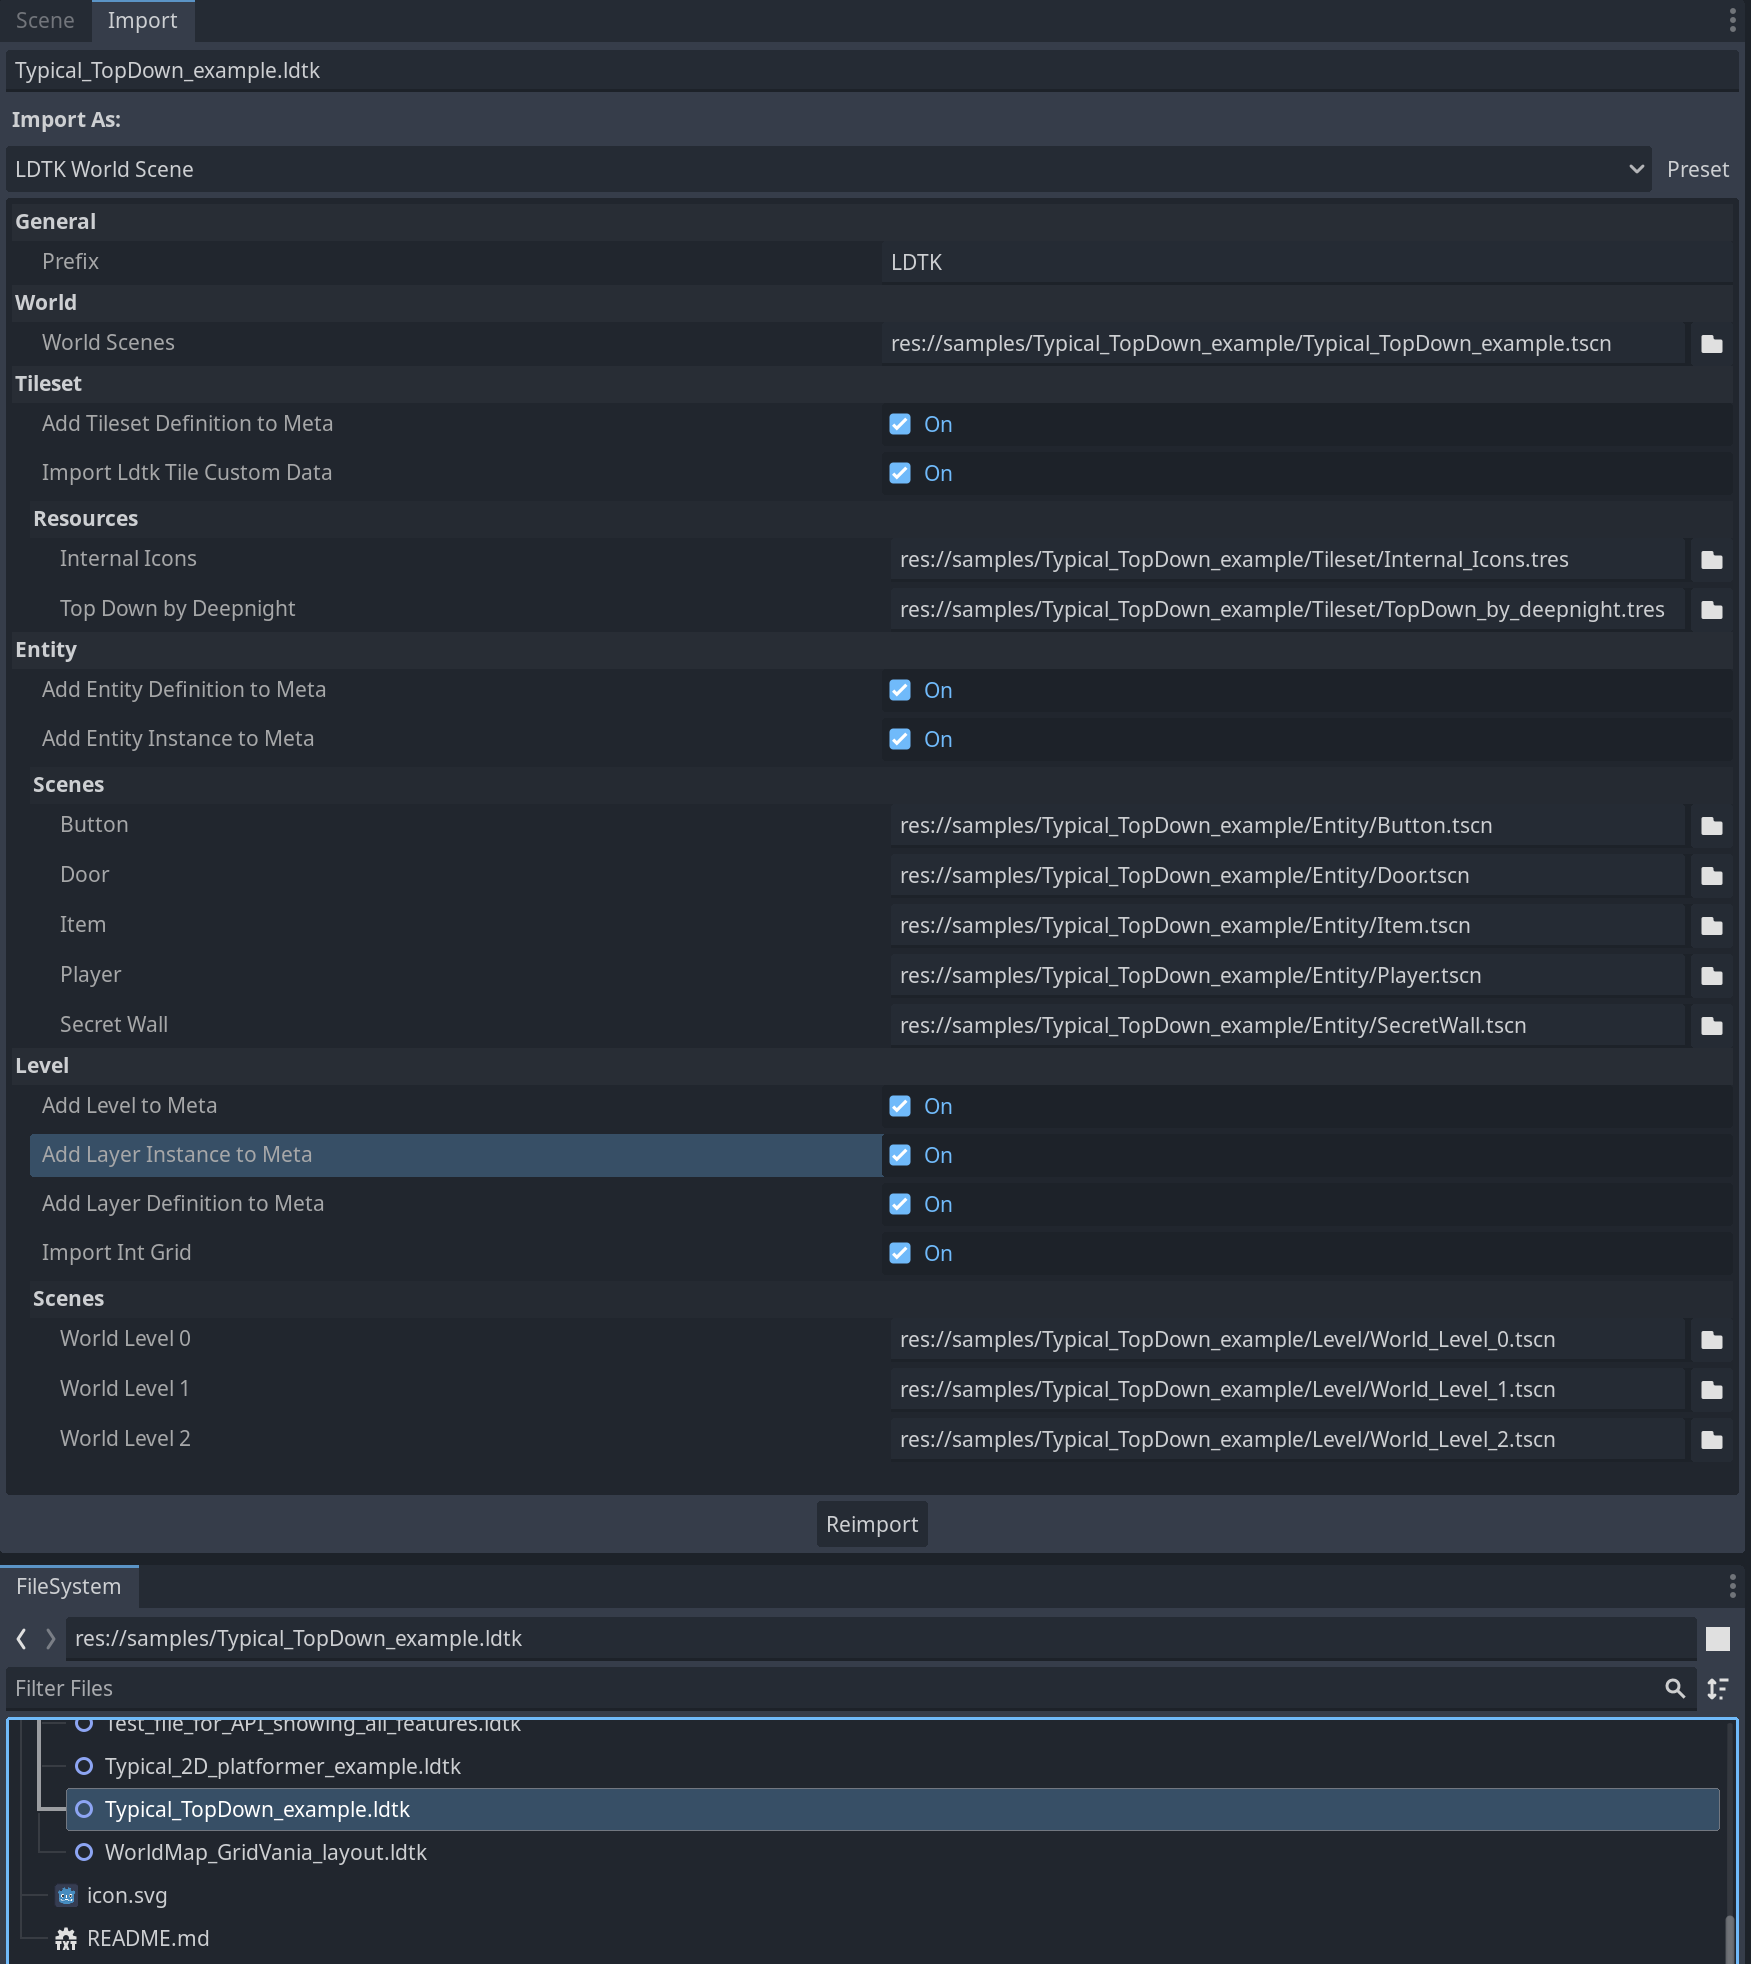
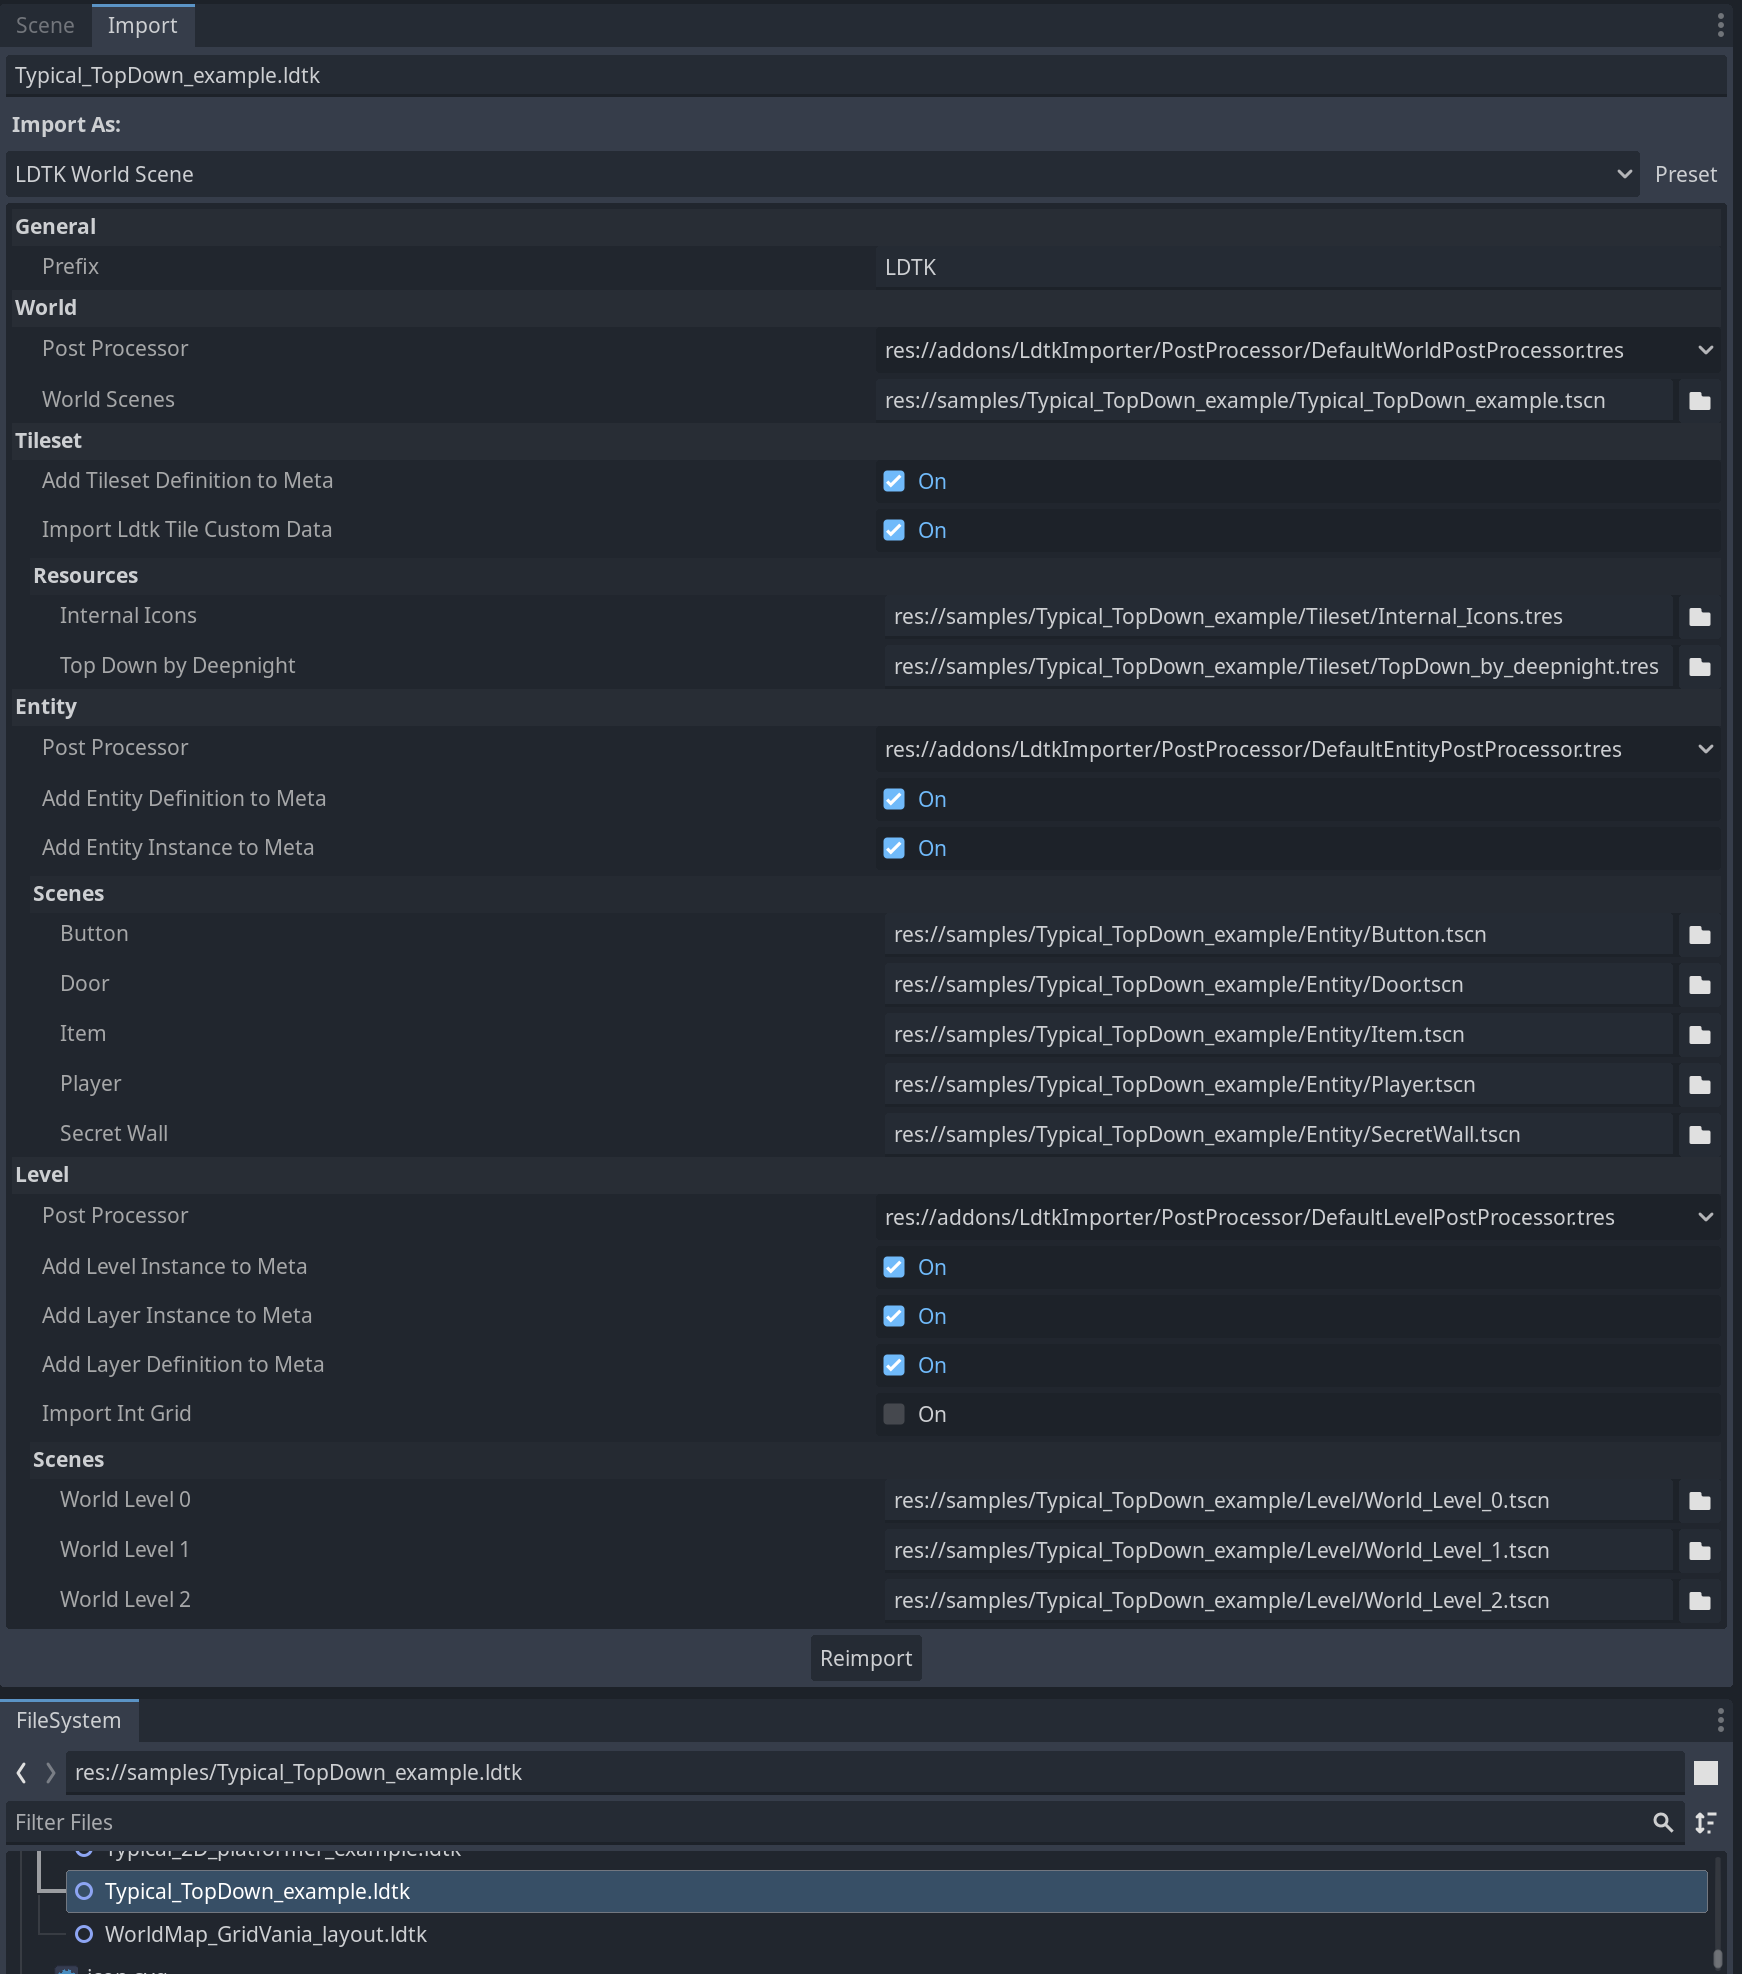
- 更新README.md

diff --git a/README.md b/README.md
@@ -60,16 +60,19 @@ Godot 4 C# [LDtk](https://ldtk.io/) 导入插件
 * General
     * Prefix: 该前缀表示当执行导入时，生成的 `Node2D`、`TileMap`等节点的名称前缀（例如：`LDTK_World_Level_0`）以及导入的元数据的名称前缀
 * World
+    * Post Processor: 导入后置处理器，可以通过后置处理器对导入后的节点进行自定义处理
     * World Scenes: 表示要生成的世界场景的文件名称
 * Tileset
     * Add Tileset Definition to Meta: 将所有 [LDTK Tileset definition](https://ldtk.io/json/#ldtk-TilesetDefJson)数据作为元数据存储到Godot tileset中，其中元数据的key为：`${Prefix}_tilesetDefinition`，例如：`LDTK_tilesetDefinition`
     * Resources: 根据LDTK中Tilesets的不同，插件自动生成对应的配置
 * Entity
+    * Post Processor: 导入后置处理器，可以通过后置处理器对导入后的节点进行自定义处理
     * Add Entity Definition to Meta: 将[LDTK Entity Definition](https://ldtk.io/json/#ldtk-EntityDefJson)数据作为元数据存储到导入后的Entity Scene以及节点中，其中元数据的key为：`${Prefix}
       _entityDefinition`，例如：`LDTK_entityDefinition`
     * Add Entity Instance to Meta: 将[LDTK Entity Instance](https://ldtk.io/json/#ldtk-EntityInstanceJson)数据作为元数据存储到导入后的Entity节点中，其中元数据的key为：`${Prefix}_entityInstance`，例如：`LDTK_entityInstance`
     * Scenes: 根据LDTK中Entity的数量，插件自动生成对于的配置
 * Level
+    * Post Processor: 导入后置处理器，可以通过后置处理器对导入后的节点进行自定义处理
     * Add Level to Meta: 将[LDTK Level](https://ldtk.io/json/#ldtk-LevelJson)数据作为元数据存储到导入后的Level节点中，其中元数据的key为：`${Prefix}_levelInstance`，例如：`LDTK_levelInstance`
     * Add Layer Instance to Meta: 将[LDTK Layer Instance](https://ldtk.io/json/#ldtk-LayerInstanceJson)数据作为元数据存储到导入后的Layer节点中，其中其中元数据的key为：`${Prefix}_layerInstance`，例如：`LDTK_layerInstance`
     * Add Layer Definition to Meta: 将[LDTK Layer Definition](https://ldtk.io/json/#ldtk-LayerDefJson)数据作为元数据存储到导入后的Layer节点中，其中其中元数据的key为：`${Prefix}_layerDefinition`，例如：`LDTK_layerDefinition`
